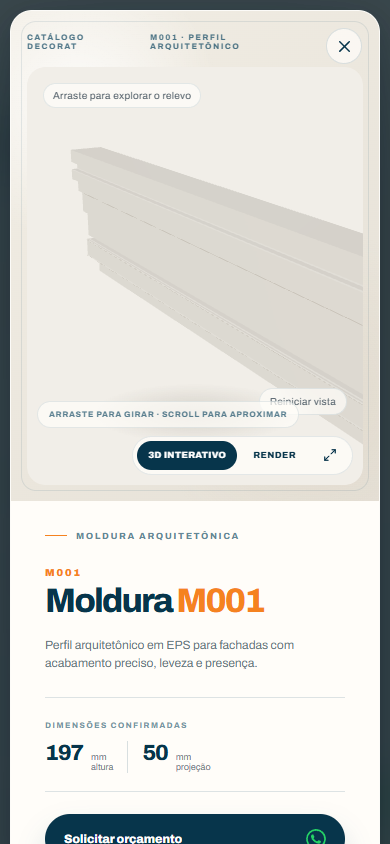
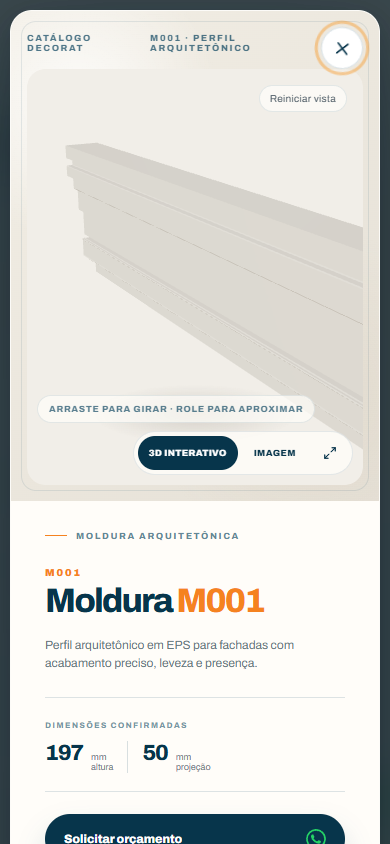
feat: polish showroom ux and accessibility

diff --git a/src/components/MolduraModal.tsx b/src/components/MolduraModal.tsx
@@ -1,6 +1,6 @@
 "use client";
 
-import { useEffect, useRef, useState } from "react";
+import { useEffect, useRef, useState, type RefObject } from "react";
 import Image from "next/image";
 import { X, Box, FileText, ZoomIn, MoveVertical, MoveHorizontal, Layers, Ruler, Download, Maximize2, Minimize2, ChevronDown } from "lucide-react";
 import dynamic from "next/dynamic";
@@ -32,6 +32,52 @@ interface MolduraModalProps {
   onSelectWhatsApp: (product: ProductItem) => void;
 }
 
+function useDialogInteraction(enabled: boolean, onClose: () => void, dialogRef: RefObject<HTMLDivElement | null>, initialFocusRef: RefObject<HTMLElement | null>) {
+  useEffect(() => {
+    if (!enabled) return;
+
+    const previousFocus = document.activeElement instanceof HTMLElement ? document.activeElement : null;
+    const previousOverflow = document.body.style.overflow;
+    document.body.style.overflow = "hidden";
+
+    const focusTimer = window.setTimeout(() => initialFocusRef.current?.focus({ preventScroll: true }), 0);
+    const handleKeyDown = (event: KeyboardEvent) => {
+      if (event.key === "Escape") {
+        event.preventDefault();
+        onClose();
+        return;
+      }
+
+      if (event.key !== "Tab") return;
+      const dialog = dialogRef.current;
+      if (!dialog) return;
+
+      const focusable = Array.from(dialog.querySelectorAll<HTMLElement>(
+        'button:not([disabled]), a[href], input:not([disabled]), select:not([disabled]), textarea:not([disabled]), [tabindex]:not([tabindex="-1"])',
+      ));
+      if (!focusable.length) return;
+
+      const first = focusable[0];
+      const last = focusable[focusable.length - 1];
+      if (event.shiftKey && document.activeElement === first) {
+        event.preventDefault();
+        last.focus();
+      } else if (!event.shiftKey && document.activeElement === last) {
+        event.preventDefault();
+        first.focus();
+      }
+    };
+
+    document.addEventListener("keydown", handleKeyDown);
+    return () => {
+      window.clearTimeout(focusTimer);
+      document.removeEventListener("keydown", handleKeyDown);
+      document.body.style.overflow = previousOverflow;
+      previousFocus?.focus({ preventScroll: true });
+    };
+  }, [dialogRef, enabled, initialFocusRef, onClose]);
+}
+
 function WhatsAppIcon({ size = 18 }: { size?: number }) {
   return (
     <svg aria-hidden="true" width={size} height={size} viewBox="0 0 24 24" fill="currentColor">
@@ -46,6 +92,10 @@ function PremiumM001Showroom({ product, onClose, onSelectWhatsApp }: MolduraModa
   const [isFullscreen, setIsFullscreen] = useState(false);
 
   const visualRef = useRef<HTMLElement>(null);
+  const dialogRef = useRef<HTMLDivElement>(null);
+  const closeRef = useRef<HTMLButtonElement>(null);
+
+  useDialogInteraction(true, onClose, dialogRef, closeRef);
 
   useEffect(() => {
     const updateFullscreenState = () => setIsFullscreen(document.fullscreenElement === visualRef.current);
@@ -68,14 +118,14 @@ function PremiumM001Showroom({ product, onClose, onSelectWhatsApp }: MolduraModa
 
   return (
     <div className="decorat-m001-backdrop" onClick={(event) => { if (event.target === event.currentTarget) onClose(); }}>
-      <div className={`decorat-m001-showroom ${isFullscreen ? "is-fullscreen" : ""}`}>
+      <div ref={dialogRef} className={`decorat-m001-showroom ${isFullscreen ? "is-fullscreen" : ""}`} role="dialog" aria-modal="true" aria-labelledby="decorat-m001-title" aria-describedby="decorat-m001-description">
         <section className="decorat-m001-visual" ref={visualRef}>
           <div className="decorat-m001-visual-meta">
             <span>CATÁLOGO DECORAT</span>
             <span>M001 · PERFIL ARQUITETÔNICO</span>
           </div>
 
-          <button onClick={onClose} className="decorat-m001-close" aria-label="Fechar showroom">
+          <button ref={closeRef} type="button" onClick={onClose} className="decorat-m001-close" aria-label="Fechar showroom" title="Fechar showroom">
             <X size={19} />
           </button>
 
@@ -87,6 +137,7 @@ function PremiumM001Showroom({ product, onClose, onSelectWhatsApp }: MolduraModa
                 widthMm={product.largura_mm}
                 fitFactor={0.76}
                 mobileFitFactor={0.58}
+                showHint={false}
               />
             ) : (
               <div className="decorat-m001-render">
@@ -95,11 +146,11 @@ function PremiumM001Showroom({ product, onClose, onSelectWhatsApp }: MolduraModa
             )}
 
             <div className={`decorat-m001-stage-footer ${view === "render" ? "is-render" : ""}`}>
-              {view === "3d" && <span>Arraste para girar · scroll para aproximar</span>}
+              {view === "3d" && <span>Arraste para girar · role para aproximar</span>}
               <div className="decorat-m001-view-controls">
-                <button type="button" className={view === "3d" ? "active" : ""} onClick={() => setView("3d")}>3D interativo</button>
-                <button type="button" className={view === "render" ? "active" : ""} onClick={() => setView("render")}>Render</button>
-                <button type="button" onClick={toggleFullscreen} aria-label={isFullscreen ? "Sair da tela cheia" : "Abrir tela cheia"}>
+                <button type="button" className={view === "3d" ? "active" : ""} onClick={() => setView("3d")} aria-pressed={view === "3d"}>3D interativo</button>
+                <button type="button" className={view === "render" ? "active" : ""} onClick={() => setView("render")} aria-pressed={view === "render"} title="Ver render estático">Imagem</button>
+                <button type="button" onClick={toggleFullscreen} aria-label={isFullscreen ? "Sair da tela cheia" : "Abrir tela cheia"} title={isFullscreen ? "Sair da tela cheia" : "Expandir visual"}>
                   {isFullscreen ? <Minimize2 size={14} /> : <Maximize2 size={14} />}
                 </button>
               </div>
@@ -111,8 +162,8 @@ function PremiumM001Showroom({ product, onClose, onSelectWhatsApp }: MolduraModa
           <div className="decorat-m001-info-body">
             <div className="decorat-m001-info-kicker"><span /> {product.categoria}</div>
             <p className="decorat-m001-code">{product.codigo}</p>
-            <h2>Moldura <em>{product.codigo}</em></h2>
-            <p className="decorat-m001-description">
+            <h2 id="decorat-m001-title">Moldura <em>{product.codigo}</em></h2>
+            <p id="decorat-m001-description" className="decorat-m001-description">
               Perfil arquitetônico em EPS para fachadas com acabamento preciso, leveza e presença.
             </p>
 
@@ -130,13 +181,13 @@ function PremiumM001Showroom({ product, onClose, onSelectWhatsApp }: MolduraModa
               <WhatsAppIcon size={20} />
             </button>
 
-            <button type="button" className="decorat-m001-technical-toggle" onClick={() => setShowTechnical((current) => !current)}>
+            <button type="button" className="decorat-m001-technical-toggle" onClick={() => setShowTechnical((current) => !current)} aria-expanded={showTechnical} aria-controls="decorat-m001-technical">
               <span>{showTechnical ? "Ocultar informações técnicas" : "Ver informações técnicas"}</span>
               <ChevronDown size={16} className={showTechnical ? "rotated" : ""} />
             </button>
 
             {showTechnical && (
-              <div className="decorat-m001-technical" role="region" aria-label="Informações técnicas">
+              <div id="decorat-m001-technical" className="decorat-m001-technical" role="region" aria-label="Informações técnicas">
                 <div><span>Material</span><strong>EPS revestido Decorat</strong></div>
                 <div><span>Comprimento padrão</span><strong>2,00 metros</strong></div>
               </div>
@@ -156,6 +207,10 @@ function PremiumM001Showroom({ product, onClose, onSelectWhatsApp }: MolduraModa
 export default function MolduraModal({ product, onClose, onSelectWhatsApp }: MolduraModalProps) {
   const [activeTab, setActiveTab] = useState<"render" | "perfil" | "3d">("render");
   const [zoom, setZoom] = useState(false);
+  const dialogRef = useRef<HTMLDivElement>(null);
+  const closeRef = useRef<HTMLButtonElement>(null);
+
+  useDialogInteraction(Boolean(product) && product?.codigo !== "M001", onClose, dialogRef, closeRef);
 
   if (!product) return null;
 
@@ -165,10 +220,10 @@ export default function MolduraModal({ product, onClose, onSelectWhatsApp }: Mol
 
   return (
     <div className="catalogo-modal-backdrop" onClick={(e) => { if (e.target === e.currentTarget) onClose(); }}>
-      <div className="catalogo-modal-card">
+      <div ref={dialogRef} className="catalogo-modal-card" role="dialog" aria-modal="true" aria-labelledby="catalogo-modal-title">
         
         {/* Close Button */}
-        <button onClick={onClose} className="catalogo-modal-close" aria-label="Fechar">
+        <button ref={closeRef} type="button" onClick={onClose} className="catalogo-modal-close" aria-label="Fechar modal" title="Fechar modal">
           <X style={{ width: 18, height: 18 }} />
         </button>
 
@@ -180,6 +235,7 @@ export default function MolduraModal({ product, onClose, onSelectWhatsApp }: Mol
             <button
               onClick={() => setActiveTab("render")}
               className={`catalogo-modal-tab-btn ${activeTab === "render" ? "active" : ""}`}
+              aria-pressed={activeTab === "render"}
             >
               <FileText style={{ width: 14, height: 14 }} />
               <span>Render 3D</span>
@@ -187,6 +243,7 @@ export default function MolduraModal({ product, onClose, onSelectWhatsApp }: Mol
             <button
               onClick={() => setActiveTab("perfil")}
               className={`catalogo-modal-tab-btn ${activeTab === "perfil" ? "active" : ""}`}
+              aria-pressed={activeTab === "perfil"}
             >
               <FileText style={{ width: 14, height: 14 }} />
               <span>Corte Técnico</span>
@@ -194,6 +251,7 @@ export default function MolduraModal({ product, onClose, onSelectWhatsApp }: Mol
             <button
               onClick={() => setActiveTab("3d")}
               className={`catalogo-modal-tab-btn ${activeTab === "3d" ? "active-3d" : ""}`}
+              aria-pressed={activeTab === "3d"}
             >
               <Box style={{ width: 14, height: 14 }} />
               <span>3D Interativo</span>
@@ -275,7 +333,7 @@ export default function MolduraModal({ product, onClose, onSelectWhatsApp }: Mol
               MOLDURA EPS DECORAT
             </span>
 
-            <h2 className="catalogo-modal-title">Moldura {product.codigo}</h2>
+            <h2 id="catalogo-modal-title" className="catalogo-modal-title">Moldura {product.codigo}</h2>
             <p className="catalogo-modal-desc">
               Moldura arquitetônica em EPS de alta densidade, leve, durável e pronta para aplicação e acabamento em fachada ou ambiente interno.
             </p>
@@ -295,7 +353,7 @@ export default function MolduraModal({ product, onClose, onSelectWhatsApp }: Mol
                 <div className="catalogo-spec-item" style={{ display: "flex", gap: 12, alignItems: "flex-start" }}>
                   <MoveHorizontal style={{ width: 20, height: 20, color: "var(--deep)", flexShrink: 0, marginTop: 2 }} />
                   <div style={{ display: "flex", flexDirection: "column", gap: 2 }}>
-                    <span style={{ fontSize: 11, color: "var(--muted)" }}>Largura / Projeção</span>
+                    <span style={{ fontSize: 11, color: "var(--muted)" }}>Projeção</span>
                     <strong style={{ fontSize: 15, color: "var(--deep)" }}>{product.largura_mm ? `${product.largura_mm} mm` : "Sob consulta"}</strong>
                   </div>
                 </div>

diff --git a/src/app/catalogo-digital.css b/src/app/catalogo-digital.css
@@ -555,6 +555,26 @@
   font-size: 12px;
 }
 
+.moldura-3d-error {
+  align-content: center;
+  justify-items: center;
+  padding: 24px;
+  text-align: center;
+}
+
+.moldura-3d-error button {
+  min-height: 38px;
+  padding: 0 16px;
+  border: 1px solid rgba(14, 69, 96, .2);
+  border-radius: 999px;
+  color: #fff;
+  background: var(--deep);
+  font: inherit;
+  font-size: 11px;
+  font-weight: 800;
+  cursor: pointer;
+}
+
 .moldura-3d-spinner {
   width: 22px;
   height: 22px;
@@ -695,6 +715,16 @@
   background: #fff;
 }
 
+.decorat-m001-close:focus-visible,
+.decorat-m001-view-controls button:focus-visible,
+.decorat-m001-quote:focus-visible,
+.decorat-m001-technical-toggle:focus-visible,
+.catalogo-modal-close:focus-visible,
+.catalogo-modal-tab-btn:focus-visible {
+  outline: 3px solid rgba(247, 148, 29, .42);
+  outline-offset: 3px;
+}
+
 .decorat-m001-stage {
   position: relative;
   z-index: 1;
@@ -738,7 +768,8 @@
 
 .decorat-m001-stage .moldura-3d-reset {
   right: 16px;
-  bottom: 70px;
+  top: 16px;
+  bottom: auto;
   border-color: rgba(14, 69, 96, .1);
   background: rgba(255, 253, 249, .72);
 }
@@ -793,7 +824,7 @@
 }
 
 .decorat-m001-view-controls button {
-  min-height: 29px;
+  min-height: 34px;
   display: inline-flex;
   align-items: center;
   justify-content: center;
@@ -1029,11 +1060,11 @@
   }
   .decorat-m001-visual { min-height: 58vh; padding: 22px 16px 16px; }
   .decorat-m001-visual::before { inset: 10px; border-radius: 15px; }
-  .decorat-m001-visual-meta { padding-right: 50px; font-size: 8px; }
-  .decorat-m001-close { top: 17px; right: 17px; width: 36px; height: 36px; }
+  .decorat-m001-visual-meta { padding-right: 50px; font-size: 9px; }
+  .decorat-m001-close { top: 17px; right: 17px; width: 40px; height: 40px; }
   .decorat-m001-stage { margin-top: 16px; }
   .decorat-m001-stage-footer { display: block; right: 10px; bottom: 10px; left: 10px; }
-  .decorat-m001-stage-footer > span { display: inline-block; margin-bottom: 8px; font-size: 8px; }
+  .decorat-m001-stage-footer > span { display: inline-block; margin-bottom: 8px; font-size: 9px; }
   .decorat-m001-view-controls { width: fit-content; margin-left: auto; }
   .decorat-m001-info { min-height: 0; padding: 30px 20px 20px; }
   .decorat-m001-info-body { max-width: none; }
@@ -1046,8 +1077,8 @@
   .decorat-m001-dimensions strong { font-size: 22px; }
   .decorat-m001-dimensions small { font-size: 9px; }
   .decorat-m001-quote { min-height: 50px; margin-top: 22px; padding-inline: 19px; font-size: 12px; }
-  .decorat-m001-technical-toggle { margin-top: 9px; font-size: 10px; }
-  .decorat-m001-info-footer { margin-top: 30px; font-size: 7px; }
+  .decorat-m001-technical-toggle { margin-top: 9px; font-size: 11px; }
+  .decorat-m001-info-footer { margin-top: 30px; font-size: 8px; }
 }
 
 @media (max-width: 520px) {
@@ -1272,8 +1303,9 @@
 }
 
 .catalogo-card-specs { gap: 8px; margin-bottom: 17px; color: #63747d; font-size: 11px; }
-.catalogo-card-specs span { display: inline-flex; align-items: center; gap: 5px; }
+.catalogo-card-specs span { display: inline-flex; align-items: baseline; gap: 5px; }
 .catalogo-card-specs svg { color: var(--orange-dark); stroke-width: 1.8; }
+.catalogo-card-specs small { color: #8a959a; font-size: 9px; letter-spacing: .02em; }
 .catalogo-card-spec-divider { color: #aab2b4; }
 
 .catalogo-card-btn {

diff --git a/src/components/Moldura3DViewer.tsx b/src/components/Moldura3DViewer.tsx
@@ -11,13 +11,15 @@ interface Moldura3DViewerProps {
   widthMm?: number | null;
   fitFactor?: number;
   mobileFitFactor?: number;
+  showHint?: boolean;
 }
 
-export default function Moldura3DViewer({ glbUrl, fitFactor = 0.76, mobileFitFactor }: Moldura3DViewerProps) {
+export default function Moldura3DViewer({ glbUrl, fitFactor = 0.76, mobileFitFactor, showHint = true }: Moldura3DViewerProps) {
   const containerRef = useRef<HTMLDivElement>(null);
   const resetRef = useRef<(() => void) | null>(null);
   const [loading, setLoading] = useState(true);
   const [error, setError] = useState<string | null>(null);
+  const [retryKey, setRetryKey] = useState(0);
 
   useEffect(() => {
     const container = containerRef.current;
@@ -153,7 +155,7 @@ export default function Moldura3DViewer({ glbUrl, fitFactor = 0.76, mobileFitFac
       if (container.contains(renderer.domElement)) container.removeChild(renderer.domElement);
       resetRef.current = null;
     };
-  }, [fitFactor, glbUrl, mobileFitFactor]);
+  }, [fitFactor, glbUrl, mobileFitFactor, retryKey]);
 
   return (
     <div className="moldura-3d-shell">
@@ -163,10 +165,17 @@ export default function Moldura3DViewer({ glbUrl, fitFactor = 0.76, mobileFitFac
           <span>Preparando a vista da moldura…</span>
         </div>
       )}
-      {error && <div className="moldura-3d-error">{error}</div>}
+      {error && (
+        <div className="moldura-3d-error" role="alert">
+          <span>{error}</span>
+          <button type="button" onClick={() => { setError(null); setLoading(true); setRetryKey((current) => current + 1); }}>
+            Tentar novamente
+          </button>
+        </div>
+      )}
       <div ref={containerRef} className="moldura-3d-canvas" />
-      <div className="moldura-3d-hint" aria-hidden="true">Arraste para explorar o relevo</div>
-      <button className="moldura-3d-reset" type="button" onClick={() => resetRef.current?.()} aria-label="Reiniciar enquadramento 3D">
+      {showHint && <div className="moldura-3d-hint" aria-hidden="true">Arraste para girar · role para aproximar</div>}
+      <button className="moldura-3d-reset" type="button" onClick={() => resetRef.current?.()} aria-label="Reiniciar enquadramento 3D" title="Reiniciar enquadramento 3D">
         Reiniciar vista
       </button>
     </div>

diff --git a/src/components/CatalogoDigital.tsx b/src/components/CatalogoDigital.tsx
@@ -117,11 +117,11 @@ export default function CatalogoDigital() {
                   <h3 className="catalogo-card-title">{product.codigo}</h3>
                   <div className="catalogo-card-specs">
                     <span><Ruler size={13} />
-                      {product.altura_mm ? `${product.altura_mm} mm` : "Sob consulta"}
+                      {product.altura_mm ? `${product.altura_mm} mm` : "Sob consulta"} <small>altura</small>
                     </span>
                     <span className="catalogo-card-spec-divider">×</span>
                     <span><Ruler size={13} />
-                      {product.largura_mm ? `${product.largura_mm} mm` : "Sob consulta"}
+                      {product.largura_mm ? `${product.largura_mm} mm` : "Sob consulta"} <small>projeção</small>
                     </span>
                   </div>
                 </div>

diff --git a/docs/m001-showroom/README.md b/docs/m001-showroom/README.md
@@ -6,7 +6,7 @@ Variação premium isolada no produto M001. O catálogo, os cards e os demais pr
 
 - `before-current-modal.png`: referência do modal atual enviada na solicitação.
 - `after-desktop.png`: 1440 × 900.
-- `after-tablet.png`: 1024 × 900.
+- `after-tablet.png`: 1024 × 768.
 - `after-mobile.png`: 390 × 844.
 - `m001-3d-demo.webm`: clipe curto capturado do canvas 3D durante uma rotação real.
 
@@ -18,4 +18,7 @@ Variação premium isolada no produto M001. O catálogo, os cards e os demais pr
 - Orçamento e tela cheia funcionam.
 - Informações técnicas ficam recolhidas por padrão.
 - Tablet e mobile priorizam o modelo antes do painel comercial.
+- `Esc` fecha o modal, o foco retorna ao card de origem e o scroll da página é restaurado.
+- O modo Imagem não exibe instruções de interação 3D; o modo 3D concentra a orientação em uma única mensagem.
+- O visualizador oferece recuperação com `Tentar novamente` quando o modelo não carrega.
 - M002 continua usando o modal legado.
